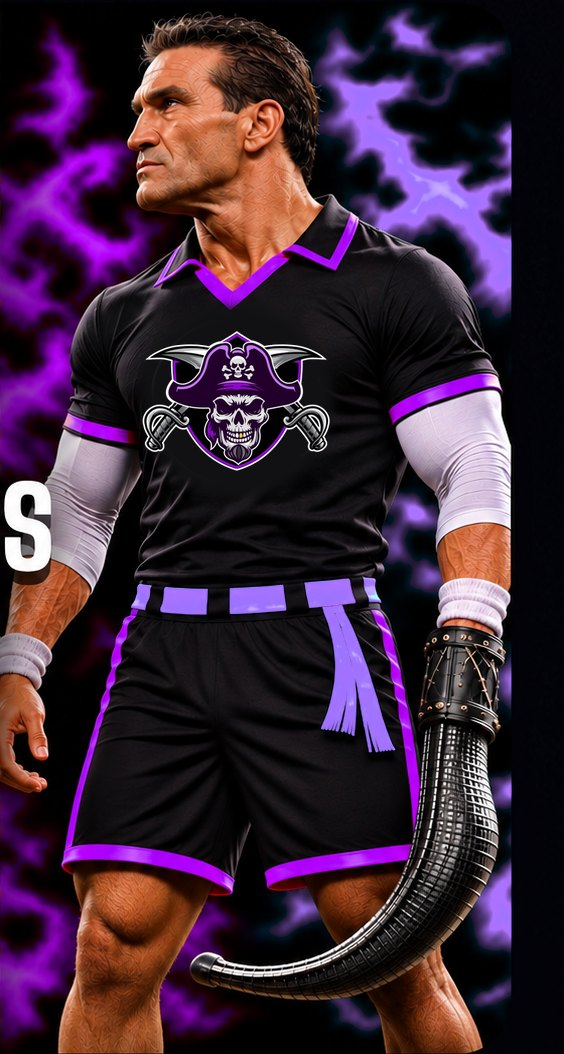
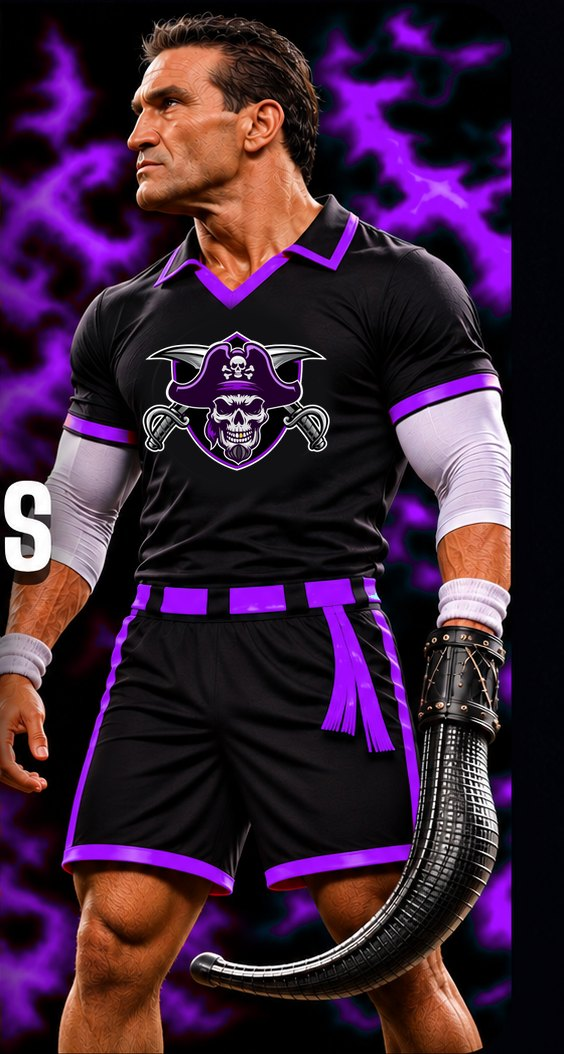
Booties uniform one solid purple; Evans starts in Booties, Shamrock in Squared Groupers
Claude-Session: https://claude.ai/code/session_01RXYkimbn35SjoihCfai7fS

diff --git a/index.html b/index.html
@@ -18,7 +18,7 @@ img { max-width: 100%; }
 [hidden] { display: none !important; }
 </style>
 <script>
-window.FL_BUILD = "20261120204200";
+window.FL_BUILD = "20261120204323";
 window.FL_RELAY = "wss://relay-production-5e78c1a2.up.railway.app/ws";
 window.FL_STATS = "https://relay-production-5e78c1a2.up.railway.app/t";
 window.FL_FEEDBACK = "https://relay-production-5e78c1a2.up.railway.app/feedback";
@@ -736,7 +736,7 @@ body.poster-on #tapPlay { display: block; position: sticky; bottom: calc(26px + 
 </div>
 
 <script>
-window.FL_LOOK2 = 1; window.FL_PROMO = { tag: "Limited Edition · Celebrity Match Up", target: 15, adEvery: 5, modes: ["aerial", "side", "table"], teams: [0, 1, 2, 3, 4, 5], people: [{ name: "Suga Rashad Evans", team: 0, look: 1, face: "celeb-face-1.jpg?v=1", art: { 0: "celeb-1-0.jpg?v=3", 1: "celeb-1-1.jpg?v=3", 2: "celeb-1-2.jpg?v=3", 3: "celeb-1-3.jpg?v=3", 4: "celeb-1-4.jpg?v=3", 5: "celeb-1-5.jpg?v=3" } }, { name: "Ken Shamrock", team: 1, look: -1, face: "celeb-face-2.jpg?v=1", art: { 0: "celeb-2-0.jpg?v=3", 1: "celeb-2-1.jpg?v=3", 2: "celeb-2-2.jpg?v=3", 3: "celeb-2-3.jpg?v=3", 4: "celeb-2-4.jpg?v=3", 5: "celeb-2-5.jpg?v=3" } }] }; window.FL_POSTER = 1; window.FL_MUSIC = 1;
+window.FL_LOOK2 = 1; window.FL_PROMO = { tag: "Limited Edition · Celebrity Match Up", target: 15, adEvery: 5, modes: ["aerial", "side", "table"], teams: [0, 1, 2, 3, 4, 5], people: [{ name: "Suga Rashad Evans", team: 2, look: 1, face: "celeb-face-1.jpg?v=1", art: { 0: "celeb-1-0.jpg?v=4", 1: "celeb-1-1.jpg?v=4", 2: "celeb-1-2.jpg?v=4", 3: "celeb-1-3.jpg?v=4", 4: "celeb-1-4.jpg?v=4", 5: "celeb-1-5.jpg?v=4" } }, { name: "Ken Shamrock", team: 0, look: -1, face: "celeb-face-2.jpg?v=1", art: { 0: "celeb-2-0.jpg?v=4", 1: "celeb-2-1.jpg?v=4", 2: "celeb-2-2.jpg?v=4", 3: "celeb-2-3.jpg?v=4", 4: "celeb-2-4.jpg?v=4", 5: "celeb-2-5.jpg?v=4" } }] }; window.FL_POSTER = 1; window.FL_MUSIC = 1;
 /* ---------- Jai alai rules + physics (no DOM) ---------- */
 var Core = (function () {
   'use strict';
